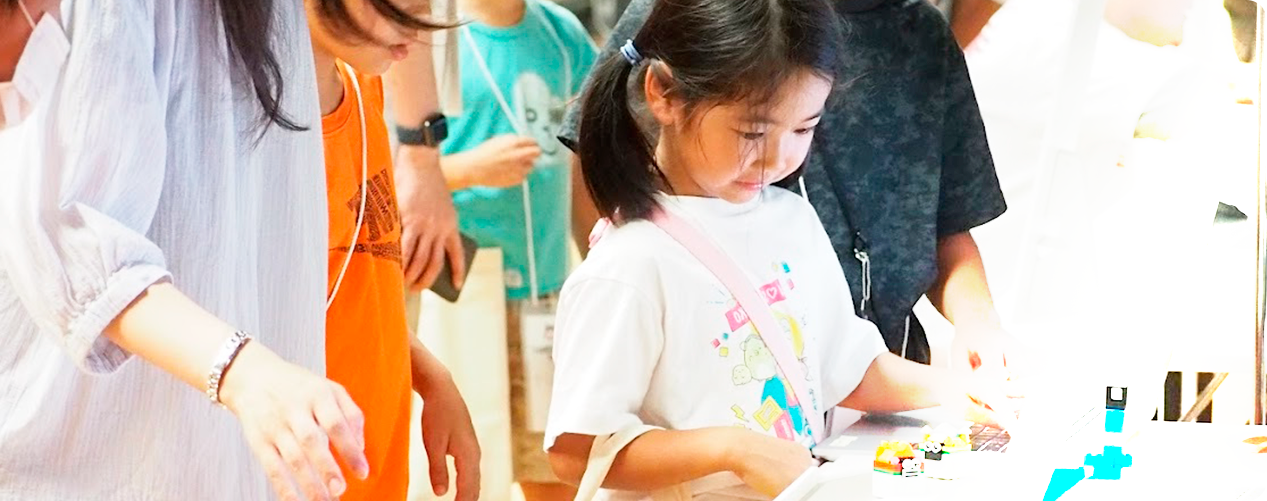
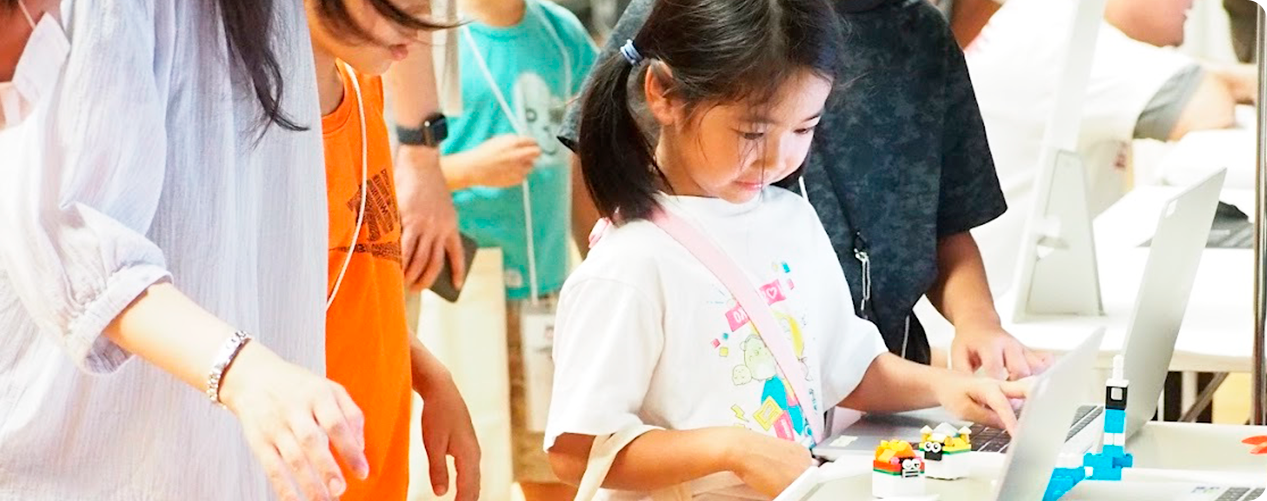
fix: inspire next section

Changed region(s): [[0.5848, 0.0, 1.0, 1.0]]

diff --git a/_includes/top/sections/inspire-next.html b/_includes/top/sections/inspire-next.html
@@ -1,10 +1,9 @@
 <!-- デスクトップの場合 -->
 <div class="hidden xl:flex mt-48">
-  <div class="w-[45%] -mt-10 mx-auto absolute pr-16 right-0">
+  <div class="w-[45%] -mt-10 mx-auto absolute z-1 pr-16 right-0">
     <h2>
       <img src="/img/2025/top/Inspire NEXT.png" alt="Inspire NEXT ～好奇心に火をつけよう～" />
     </h2>
-
     <div class="mt-9 max-w-3xl">
       今年のDojoCon Japanのテーマは「Inspire NEXT〜好奇心に火をつけよう〜」です。<br />
       この言葉には、「次の一歩をふみ出すきっかけになるようなひらめきや刺激を届けたい」という思いがこめられています。プログラミングやテクノロジーの世界は、AIなど新しいことがどんどん出てきて、変わり続けています。でも、子どもたちの「やってみたい！」「知りたい！」という好奇心は、いつの時代も変わりません。<br />
@@ -15,7 +14,12 @@
   </div>
 
   <div class="flex items-center -mx-4 mt-18 justify-between w-full">
-    <div class="w-2/3"><img class="w-full" src="/img/2025/top/inspire-next-image.png" /></div>
+    <div class="w-2/3 relative">
+      <!-- 写真にかぶっても視認性を確保するためのオーバーレイ -->
+      <div class="bg-linear-to-r from-transparent from-70% to-white hidden top-0 xl:block absolute size-full">
+      </div>
+      <img class="w-full" src="/img/2025/top/inspire-next-image.png" />
+    </div>
     <div class="w-1/4 -mt-48"><img class="w-full" src="/img/2025/top/fire-light.png" /></div>
   </div>
 </div>
